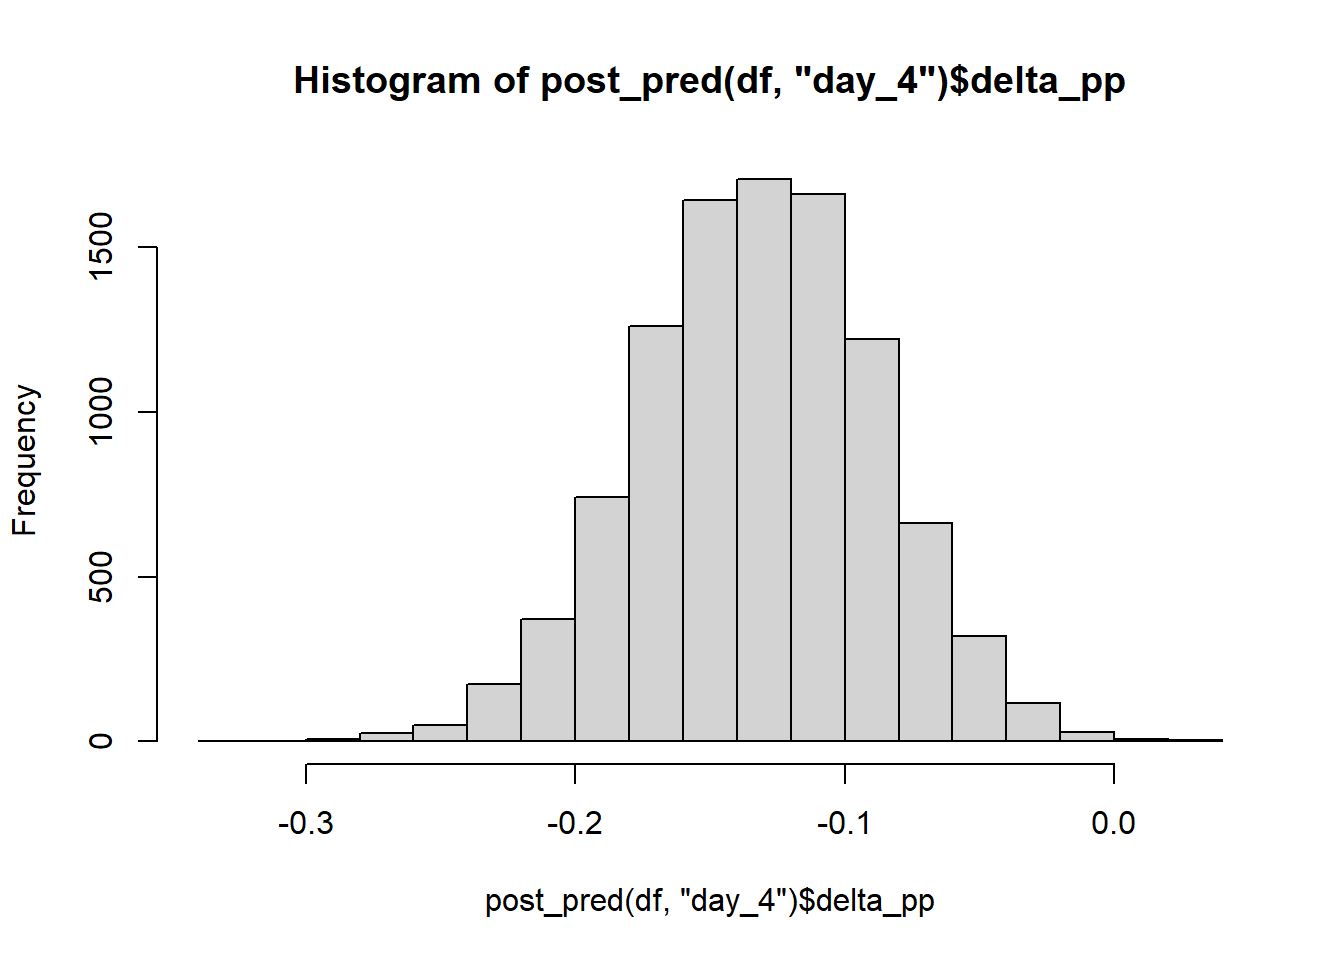
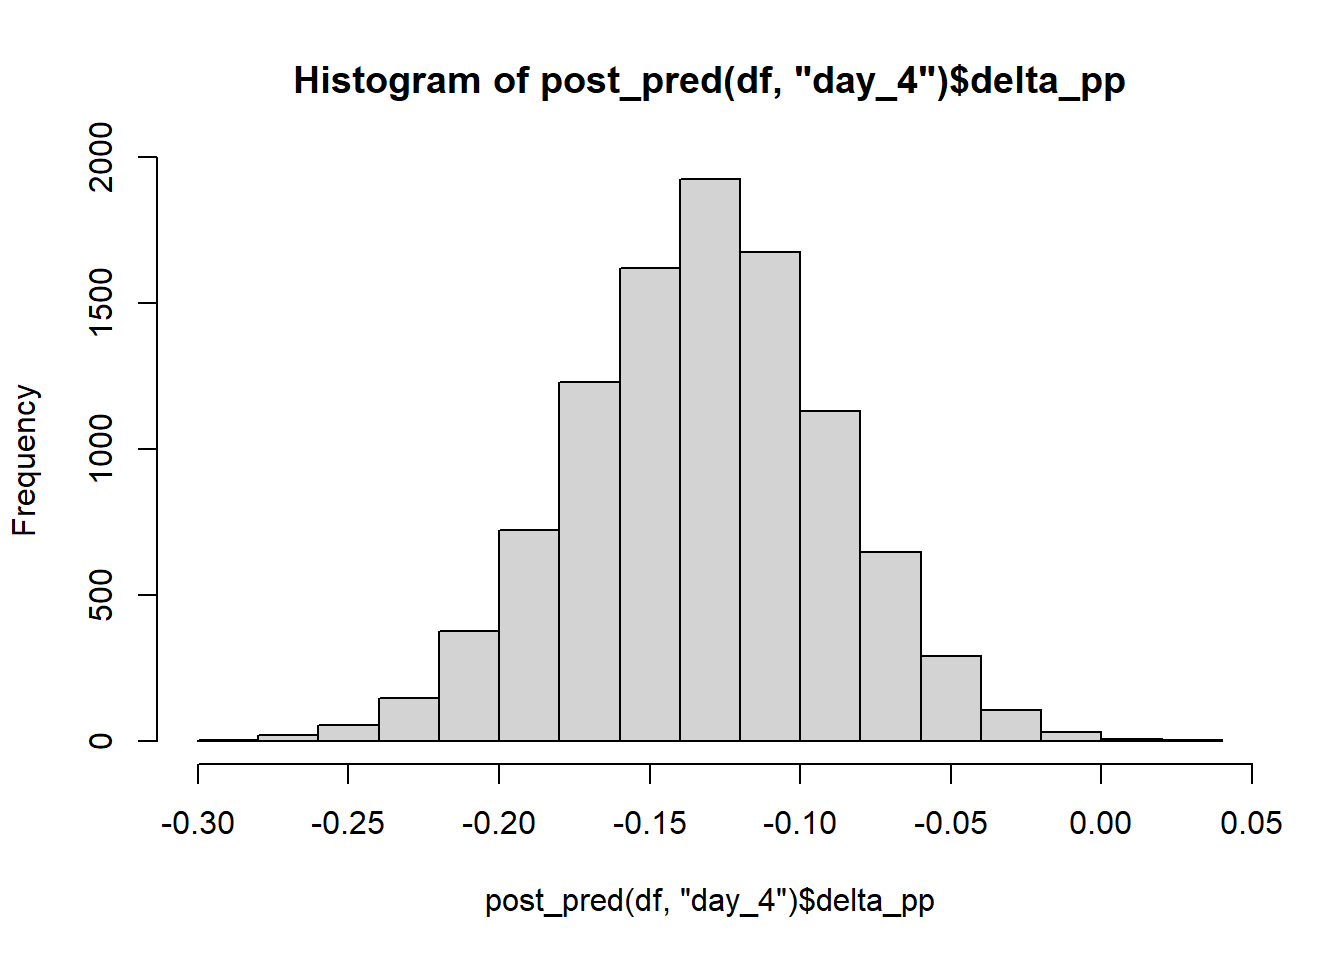
jk

diff --git a/analysis.html b/analysis.html
@@ -82,7 +82,8 @@ pre > code.sourceCode > span > a:first-child::before { text-decoration: underlin
 
 <div class="cell">
 <div class="sourceCode cell-code" id="cb1"><pre class="sourceCode r code-with-copy"><code class="sourceCode r"><span id="cb1-1"><a href="#cb1-1" aria-hidden="true" tabindex="-1"></a><span class="fu">library</span>(tidyverse)</span>
-<span id="cb1-2"><a href="#cb1-2" aria-hidden="true" tabindex="-1"></a>df <span class="ot">&lt;-</span> <span class="fu">read.csv</span>(<span class="st">"data/main.csv"</span>)</span></code><button title="Copy to Clipboard" class="code-copy-button"><i class="bi"></i></button></pre></div>
+<span id="cb1-2"><a href="#cb1-2" aria-hidden="true" tabindex="-1"></a>df <span class="ot">&lt;-</span> <span class="fu">read.csv</span>(<span class="st">"data/main.csv"</span>)</span>
+<span id="cb1-3"><a href="#cb1-3" aria-hidden="true" tabindex="-1"></a><span class="fu">set.seed</span>(<span class="dv">12042014</span>)</span></code><button title="Copy to Clipboard" class="code-copy-button"><i class="bi"></i></button></pre></div>
 </div>
 <div class="cell">
 <div class="sourceCode cell-code" id="cb2"><pre class="sourceCode r code-with-copy"><code class="sourceCode r"><span id="cb2-1"><a href="#cb2-1" aria-hidden="true" tabindex="-1"></a>bayes_boot <span class="ot">&lt;-</span> <span class="cf">function</span>(x){</span>
@@ -126,19 +127,23 @@ pre > code.sourceCode > span > a:first-child::before { text-decoration: underlin
 <span id="cb2-39"><a href="#cb2-39" aria-hidden="true" tabindex="-1"></a>  f1_boot <span class="ot">&lt;-</span> <span class="fu">bayes_boot</span>(f1)</span>
 <span id="cb2-40"><a href="#cb2-40" aria-hidden="true" tabindex="-1"></a>  f2_boot <span class="ot">&lt;-</span> <span class="fu">bayes_boot</span>(f2)</span>
 <span id="cb2-41"><a href="#cb2-41" aria-hidden="true" tabindex="-1"></a>  </span>
-<span id="cb2-42"><a href="#cb2-42" aria-hidden="true" tabindex="-1"></a>  delta_pp <span class="ot">&lt;-</span> <span class="fu">c</span>()</span>
-<span id="cb2-43"><a href="#cb2-43" aria-hidden="true" tabindex="-1"></a>  <span class="cf">for</span>(i <span class="cf">in</span> <span class="dv">1</span><span class="sc">:</span><span class="fl">1e4</span>){</span>
-<span id="cb2-44"><a href="#cb2-44" aria-hidden="true" tabindex="-1"></a>    lpp <span class="ot">&lt;-</span> <span class="fu">mean</span>(<span class="fu">rnorm</span>(<span class="fu">length</span>(lon), lon_boot<span class="sc">$</span>mu[i], lon_boot<span class="sc">$</span>sd[i]))</span>
-<span id="cb2-45"><a href="#cb2-45" aria-hidden="true" tabindex="-1"></a>    cpp <span class="ot">&lt;-</span> <span class="fu">mean</span>(<span class="fu">rnorm</span>(<span class="fu">length</span>(cal), cal_boot<span class="sc">$</span>mu[i], cal_boot<span class="sc">$</span>sd[i]))</span>
-<span id="cb2-46"><a href="#cb2-46" aria-hidden="true" tabindex="-1"></a>    f1pp <span class="ot">&lt;-</span> <span class="fu">mean</span>(<span class="fu">rnorm</span>(<span class="fu">length</span>(f1), f1_boot<span class="sc">$</span>mu[i], f1_boot<span class="sc">$</span>sd[i]))</span>
-<span id="cb2-47"><a href="#cb2-47" aria-hidden="true" tabindex="-1"></a>    f2pp <span class="ot">&lt;-</span> <span class="fu">mean</span>(<span class="fu">rnorm</span>(<span class="fu">length</span>(f2), f2_boot<span class="sc">$</span>mu[i], f2_boot<span class="sc">$</span>sd[i]))</span>
-<span id="cb2-48"><a href="#cb2-48" aria-hidden="true" tabindex="-1"></a>    </span>
-<span id="cb2-49"><a href="#cb2-49" aria-hidden="true" tabindex="-1"></a>    delta_pp[i] <span class="ot">&lt;-</span> f2pp <span class="sc">-</span> (.<span class="dv">25</span><span class="sc">*</span>(lpp <span class="sc">+</span> cpp) <span class="sc">+</span> .<span class="dv">5</span><span class="sc">*</span>f1pp)</span>
-<span id="cb2-50"><a href="#cb2-50" aria-hidden="true" tabindex="-1"></a>  }</span>
-<span id="cb2-51"><a href="#cb2-51" aria-hidden="true" tabindex="-1"></a>  <span class="fu">return</span>(<span class="fu">list</span>(<span class="at">boots =</span> <span class="fu">data.frame</span>(<span class="at">lon =</span> lon_boot, <span class="at">cal =</span> cal_boot, </span>
-<span id="cb2-52"><a href="#cb2-52" aria-hidden="true" tabindex="-1"></a>                                 <span class="at">f1 =</span> f1_boot, <span class="at">f2 =</span> f2_boot),</span>
-<span id="cb2-53"><a href="#cb2-53" aria-hidden="true" tabindex="-1"></a>              <span class="at">delta_pp =</span> delta_pp))</span>
-<span id="cb2-54"><a href="#cb2-54" aria-hidden="true" tabindex="-1"></a>}</span></code><button title="Copy to Clipboard" class="code-copy-button"><i class="bi"></i></button></pre></div>
+<span id="cb2-42"><a href="#cb2-42" aria-hidden="true" tabindex="-1"></a>  lon_pp <span class="ot">&lt;-</span> <span class="fu">matrix</span>(<span class="at">nrow=</span><span class="fl">1e4</span>, <span class="at">ncol =</span> <span class="fu">length</span>(lon))</span>
+<span id="cb2-43"><a href="#cb2-43" aria-hidden="true" tabindex="-1"></a>  cal_pp <span class="ot">&lt;-</span> <span class="fu">matrix</span>(<span class="at">nrow=</span><span class="fl">1e4</span>, <span class="at">ncol =</span> <span class="fu">length</span>(cal))</span>
+<span id="cb2-44"><a href="#cb2-44" aria-hidden="true" tabindex="-1"></a>  f1_pp <span class="ot">&lt;-</span> <span class="fu">matrix</span>(<span class="at">nrow=</span><span class="fl">1e4</span>, <span class="at">ncol =</span> <span class="fu">length</span>(f1))</span>
+<span id="cb2-45"><a href="#cb2-45" aria-hidden="true" tabindex="-1"></a>  f2_pp <span class="ot">&lt;-</span> <span class="fu">matrix</span>(<span class="at">nrow=</span><span class="fl">1e4</span>, <span class="at">ncol =</span> <span class="fu">length</span>(f2))</span>
+<span id="cb2-46"><a href="#cb2-46" aria-hidden="true" tabindex="-1"></a>  </span>
+<span id="cb2-47"><a href="#cb2-47" aria-hidden="true" tabindex="-1"></a>  delta_pp <span class="ot">&lt;-</span> <span class="fu">c</span>()</span>
+<span id="cb2-48"><a href="#cb2-48" aria-hidden="true" tabindex="-1"></a>  <span class="cf">for</span>(i <span class="cf">in</span> <span class="dv">1</span><span class="sc">:</span><span class="fl">1e4</span>){</span>
+<span id="cb2-49"><a href="#cb2-49" aria-hidden="true" tabindex="-1"></a>    lon_pp[i,] <span class="ot">&lt;-</span> <span class="fu">rnorm</span>(<span class="fu">length</span>(lon), lon_boot<span class="sc">$</span>mu[i], lon_boot<span class="sc">$</span>sd[i])</span>
+<span id="cb2-50"><a href="#cb2-50" aria-hidden="true" tabindex="-1"></a>    cal_pp[i,] <span class="ot">&lt;-</span> <span class="fu">rnorm</span>(<span class="fu">length</span>(cal), cal_boot<span class="sc">$</span>mu[i], cal_boot<span class="sc">$</span>sd[i])</span>
+<span id="cb2-51"><a href="#cb2-51" aria-hidden="true" tabindex="-1"></a>    f1_pp[i,] <span class="ot">&lt;-</span> <span class="fu">rnorm</span>(<span class="fu">length</span>(f1), f1_boot<span class="sc">$</span>mu[i], f1_boot<span class="sc">$</span>sd[i])</span>
+<span id="cb2-52"><a href="#cb2-52" aria-hidden="true" tabindex="-1"></a>    f2_pp[i,] <span class="ot">&lt;-</span> <span class="fu">rnorm</span>(<span class="fu">length</span>(f2), f2_boot<span class="sc">$</span>mu[i], f2_boot<span class="sc">$</span>sd[i])</span>
+<span id="cb2-53"><a href="#cb2-53" aria-hidden="true" tabindex="-1"></a>    </span>
+<span id="cb2-54"><a href="#cb2-54" aria-hidden="true" tabindex="-1"></a>    delta_pp[i] <span class="ot">&lt;-</span> <span class="fu">mean</span>(f2_pp[i,]) <span class="sc">-</span> (.<span class="dv">25</span><span class="sc">*</span>(<span class="fu">mean</span>(lon_pp[i,]) <span class="sc">+</span> <span class="fu">mean</span>(cal_pp[i,])) <span class="sc">+</span> .<span class="dv">5</span><span class="sc">*</span><span class="fu">mean</span>(f1_pp[i,]))</span>
+<span id="cb2-55"><a href="#cb2-55" aria-hidden="true" tabindex="-1"></a>  }</span>
+<span id="cb2-56"><a href="#cb2-56" aria-hidden="true" tabindex="-1"></a>  <span class="fu">return</span>(<span class="fu">list</span>(<span class="at">lon_pp =</span> lon_pp, <span class="at">cal_pp =</span> cal_pp, <span class="at">f1_pp =</span> f1_pp, <span class="at">f2_pp =</span> f2_pp,</span>
+<span id="cb2-57"><a href="#cb2-57" aria-hidden="true" tabindex="-1"></a>              <span class="at">delta_pp =</span> delta_pp))</span>
+<span id="cb2-58"><a href="#cb2-58" aria-hidden="true" tabindex="-1"></a>}</span></code><button title="Copy to Clipboard" class="code-copy-button"><i class="bi"></i></button></pre></div>
 </div>
 <div class="cell">
 <div class="sourceCode cell-code" id="cb3"><pre class="sourceCode r code-with-copy"><code class="sourceCode r"><span id="cb3-1"><a href="#cb3-1" aria-hidden="true" tabindex="-1"></a><span class="fu">hist</span>(<span class="fu">post_pred</span>(df, <span class="st">"day_4"</span>)<span class="sc">$</span>delta_pp)</span></code><button title="Copy to Clipboard" class="code-copy-button"><i class="bi"></i></button></pre></div>
@@ -175,6 +180,10 @@ See &lt;https://tidyselect.r-lib.org/reference/faq-external-vector.html&gt;.</co
 <p><img src="analysis_files/figure-html/unnamed-chunk-3-3.png" class="img-fluid figure-img" width="672"></p>
 </figure>
 </div>
+</div>
+<div class="sourceCode cell-code" id="cb7"><pre class="sourceCode r code-with-copy"><code class="sourceCode r"><span id="cb7-1"><a href="#cb7-1" aria-hidden="true" tabindex="-1"></a><span class="fu">sum</span>(<span class="fu">post_pred</span>(df, <span class="st">"rgr"</span>)<span class="sc">$</span>delta_pp <span class="sc">&lt;</span> <span class="dv">0</span>)<span class="sc">/</span><span class="fl">1e4</span></span></code><button title="Copy to Clipboard" class="code-copy-button"><i class="bi"></i></button></pre></div>
+<div class="cell-output cell-output-stdout">
+<pre><code>[1] 0.9944</code></pre>
 </div>
 </div>
 
